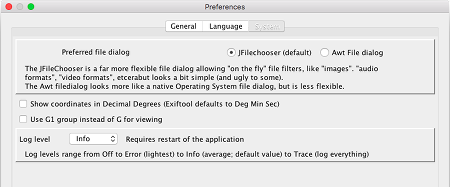
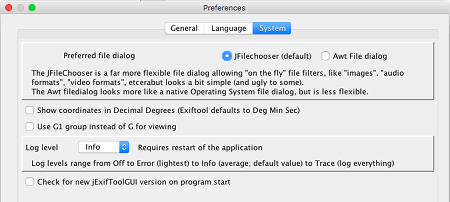
manual, minor changes

diff --git a/docs/manual/index.html b/docs/manual/index.html
@@ -172,15 +172,15 @@ jExifToolGUI: j for java, GUI for Graphical User Interface to ExifTool.
 Perl command line <a href="http://www.sno.phy.queensu.ca/~phil/exiftool/" target="_blank">ExifTool</a> by Phil Harvey.
 ExifTool is the real "engine", but as it is a command-line tool it is to some users less userfriendly. jExifToolGUI is built around exiftool and tries to give a lot of funtionalities and flexibility without you having to remember every command line parameter. jExifToolGUI only implements part of the functionality of ExifTool. It is definitely not a complete GUI for Exiftool and can certainly not replace it (if only that ExifTool is still the engine "under the hood").
 
-<p>This program is Open Source and completely free and will always stay that way, but you can donate any amount to me to show
-your appreciation (after all it took a lot of hours to write it). See the Help menu in the program or click <a href="../donate.html" target="_blank">here</a>.
+<p>This program is Open Source and completely free and will always stay that way, but you can donate any amount to me to show your appreciation if you continue to use it (after all it took a lot of hours/days to write it). See the Help menu in the program or click <a href="../donate.html" target="_blank">here</a>.
+<p>And when it comes to donation, the same is off course valid for ExifTool itself. For donation to exiftool (Phil Harvey), see <a href="https://exiftool.org/#donate" target="_blank">here</a>.
 
 <p>This manual and the jExifToolGUI version might not always run synchronously. If new functionality
 is added to the program which requires a new chapter or paragraph, the manual will be updated for that new section.
 However, not all parts of the manual will/might be updated which might lead to older program screens in the manual that might
 slightly deviate from the program version you will be working with.<br>
     Note also that you will see screen captures from several operating systems (Linux/Windows/MacOS) and/or window managers (on Linux).</p>
-    <p><strong>This manual will be worked on and slowly expand. It currently is in it's infancy.</strong></p>
+    <p><strong>This manual will be worked on and slowly expand. It currently is in its infancy.</strong></p>
 <br><br>
 <hr>
 <p><a name="Installation"></a>
@@ -342,7 +342,7 @@ Upon saving this set, you also use the file chooser to select the cfg file you c
 <p><br></p>
 <p><a name="menugeneral"></a>
 <h3 class="chapter">5 Several menu options</h3>
-<p>In this chapter some of the menu options will we explained. Some because they are somewhat more complicated. Some because you might not know what the "usefullnes" is of these options.</p>
+<p>In this chapter some of the menu options will be explained. Some because they are somewhat more complicated. Some other menus/screens because you might not know what the "usefullnes" is of these options.</p>
 
 <p><br></p>
 <p><a name="renamephotos"></a></p>
@@ -383,8 +383,9 @@ Currently the Preferences screen has 3 tabs: General (Linux LXDE), Language (Win
 <li>Many Exiftool users have helped to translate the desciption of metadata tags in Exiftool. (This has nothing to do with jExifToolGUI, but with ExifTool). You can select a number of languages and if the tag is translated you will see the tag in that language.</li></ul>
 Translating the application in your language is a volunteers/community effort. <a href="https://hvdwolf.github.io/jExifToolGUI/translate.html" target="_blank">Please help in translating this application</a>.</p>
 <p>The <strong>"System"</strong> tab (bottom right): W.r.t. the log level: Do not set it too high. That will create huge files and slow down the application (due to all the logging). The author or someone else might ask you to put it to the highest level for trobleshooting.</p>
+<p>The "Check for new jExifToolGUI version on program start" is useful as you will automatically be informed of a new release on startup.
 <p><br></p><HR>
-<p><strong>This manual will be worked on and slowly expand. It currently is in it's infancy.</strong></p>
+<p><strong>This manual will be worked on and slowly expand. It currently is in its infancy.</strong></p>
 
 
 <Hr>
